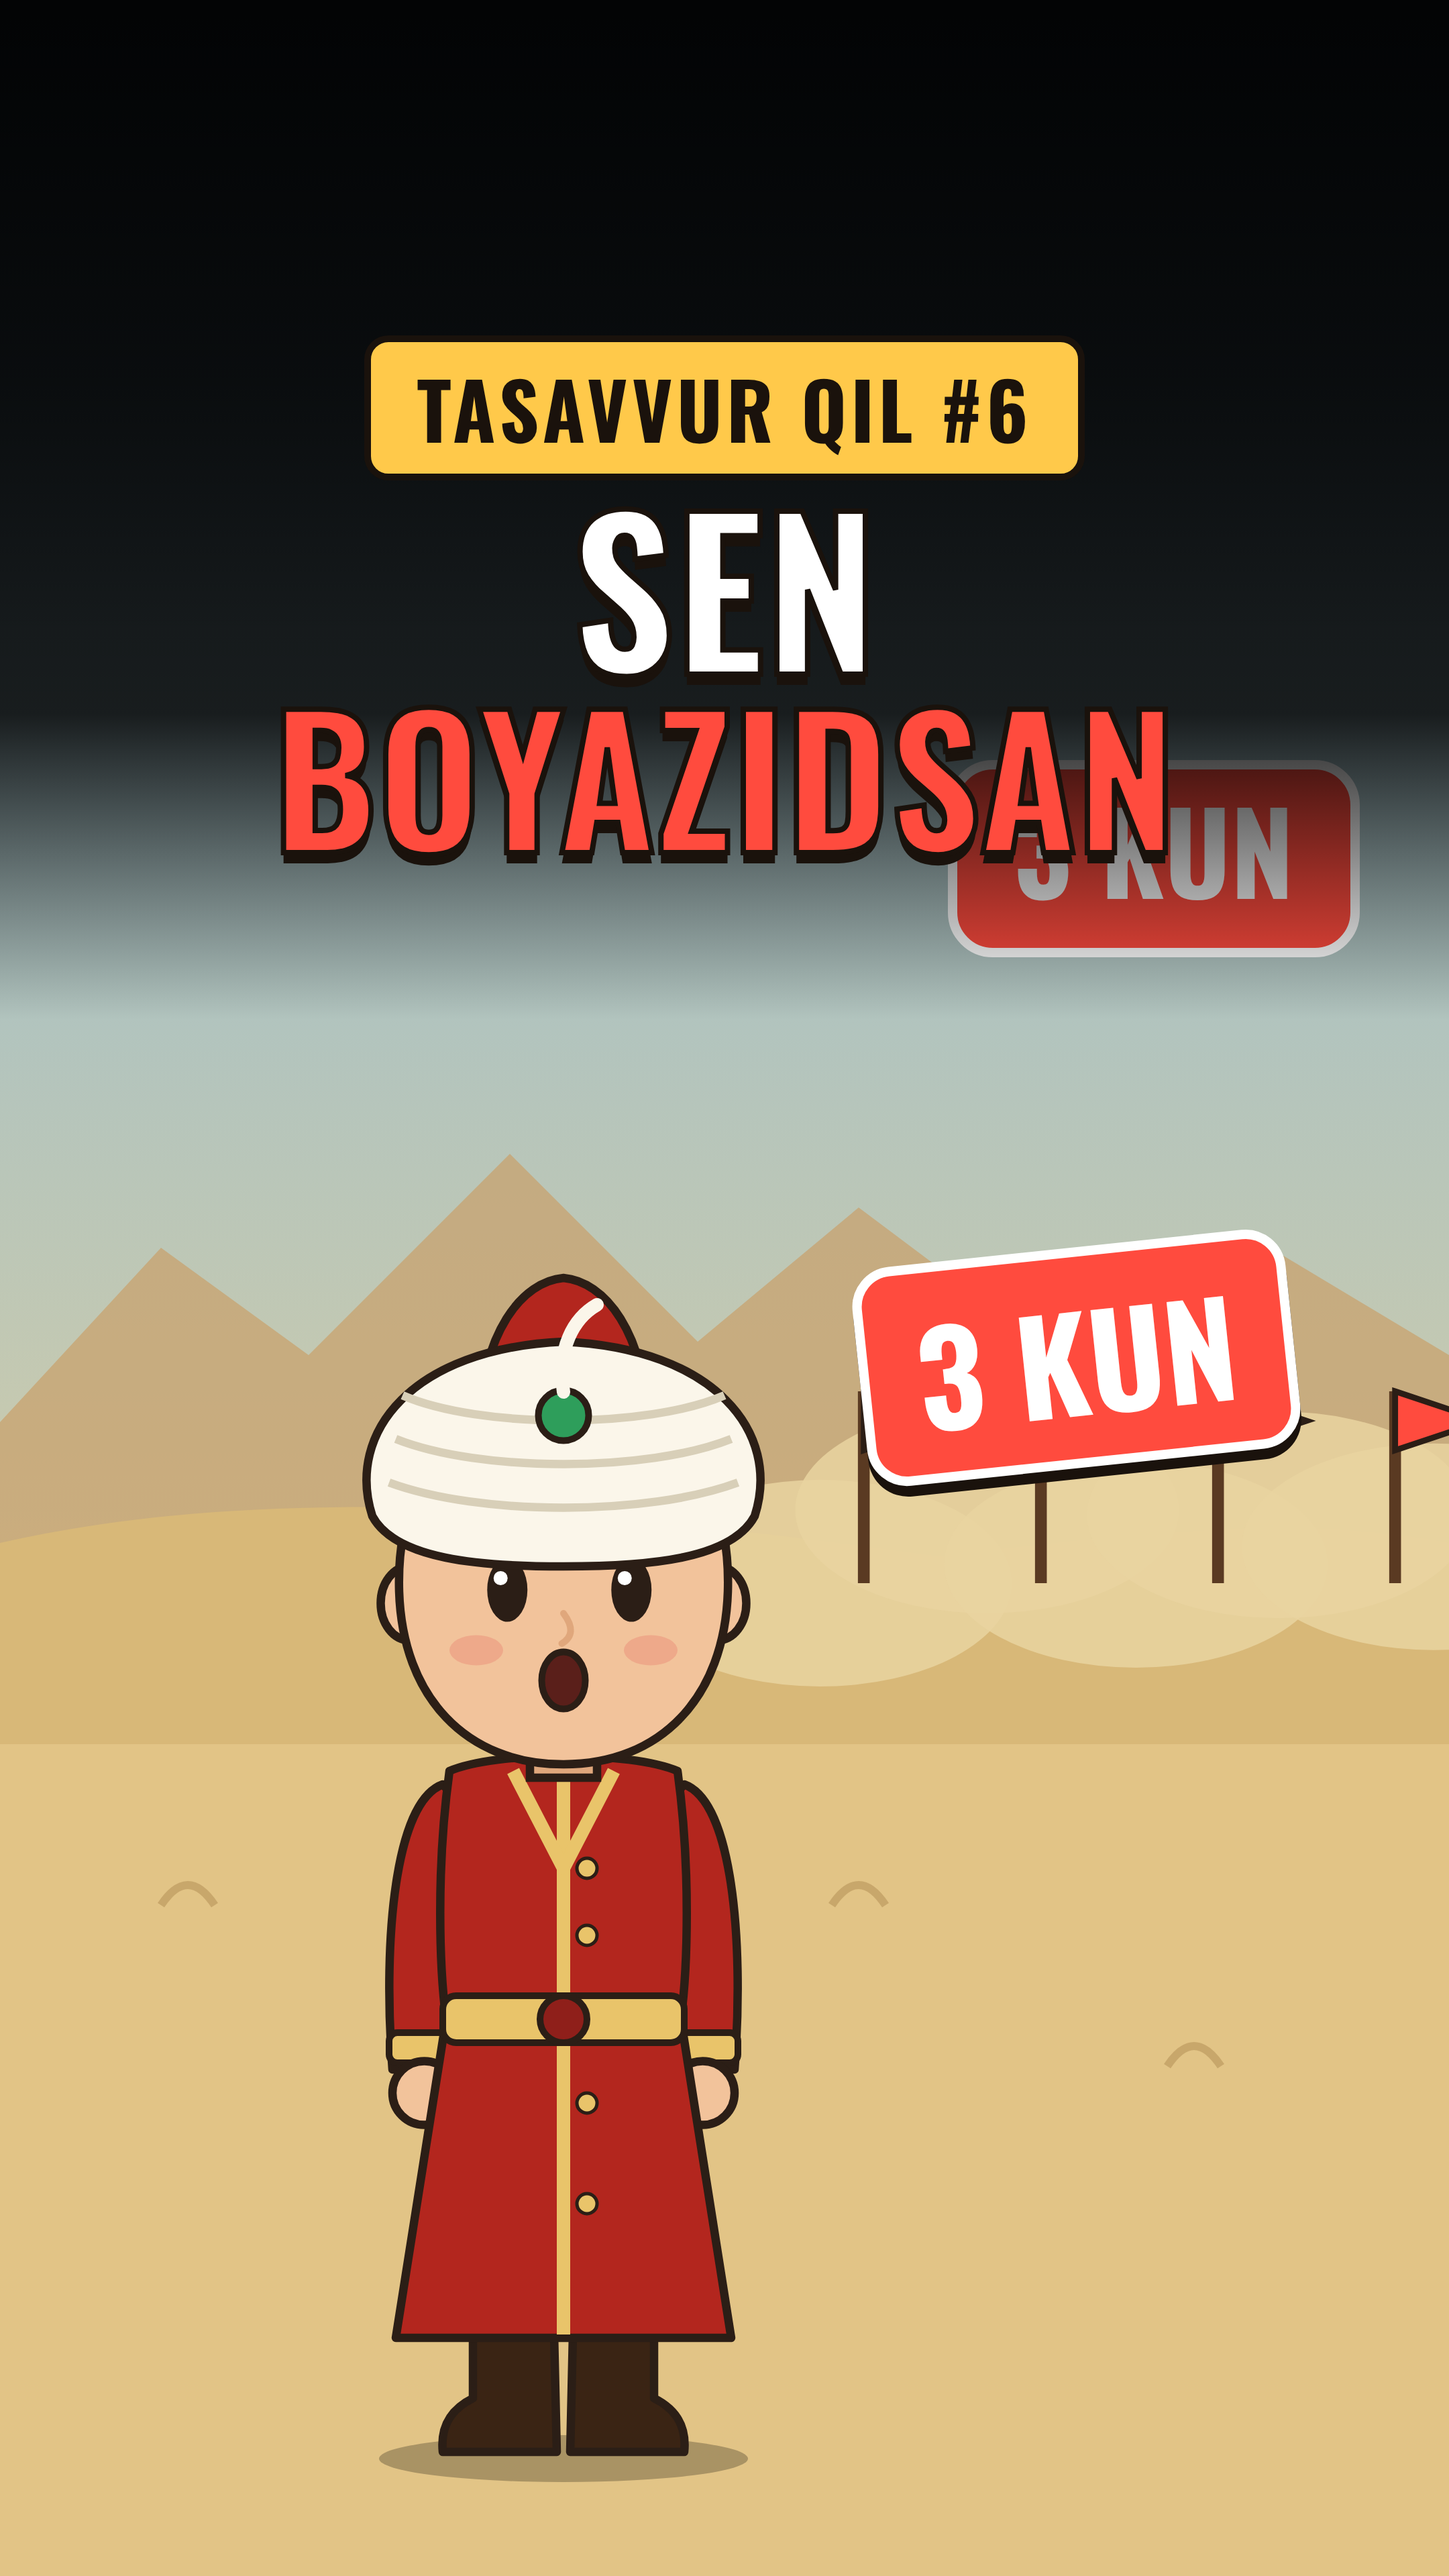
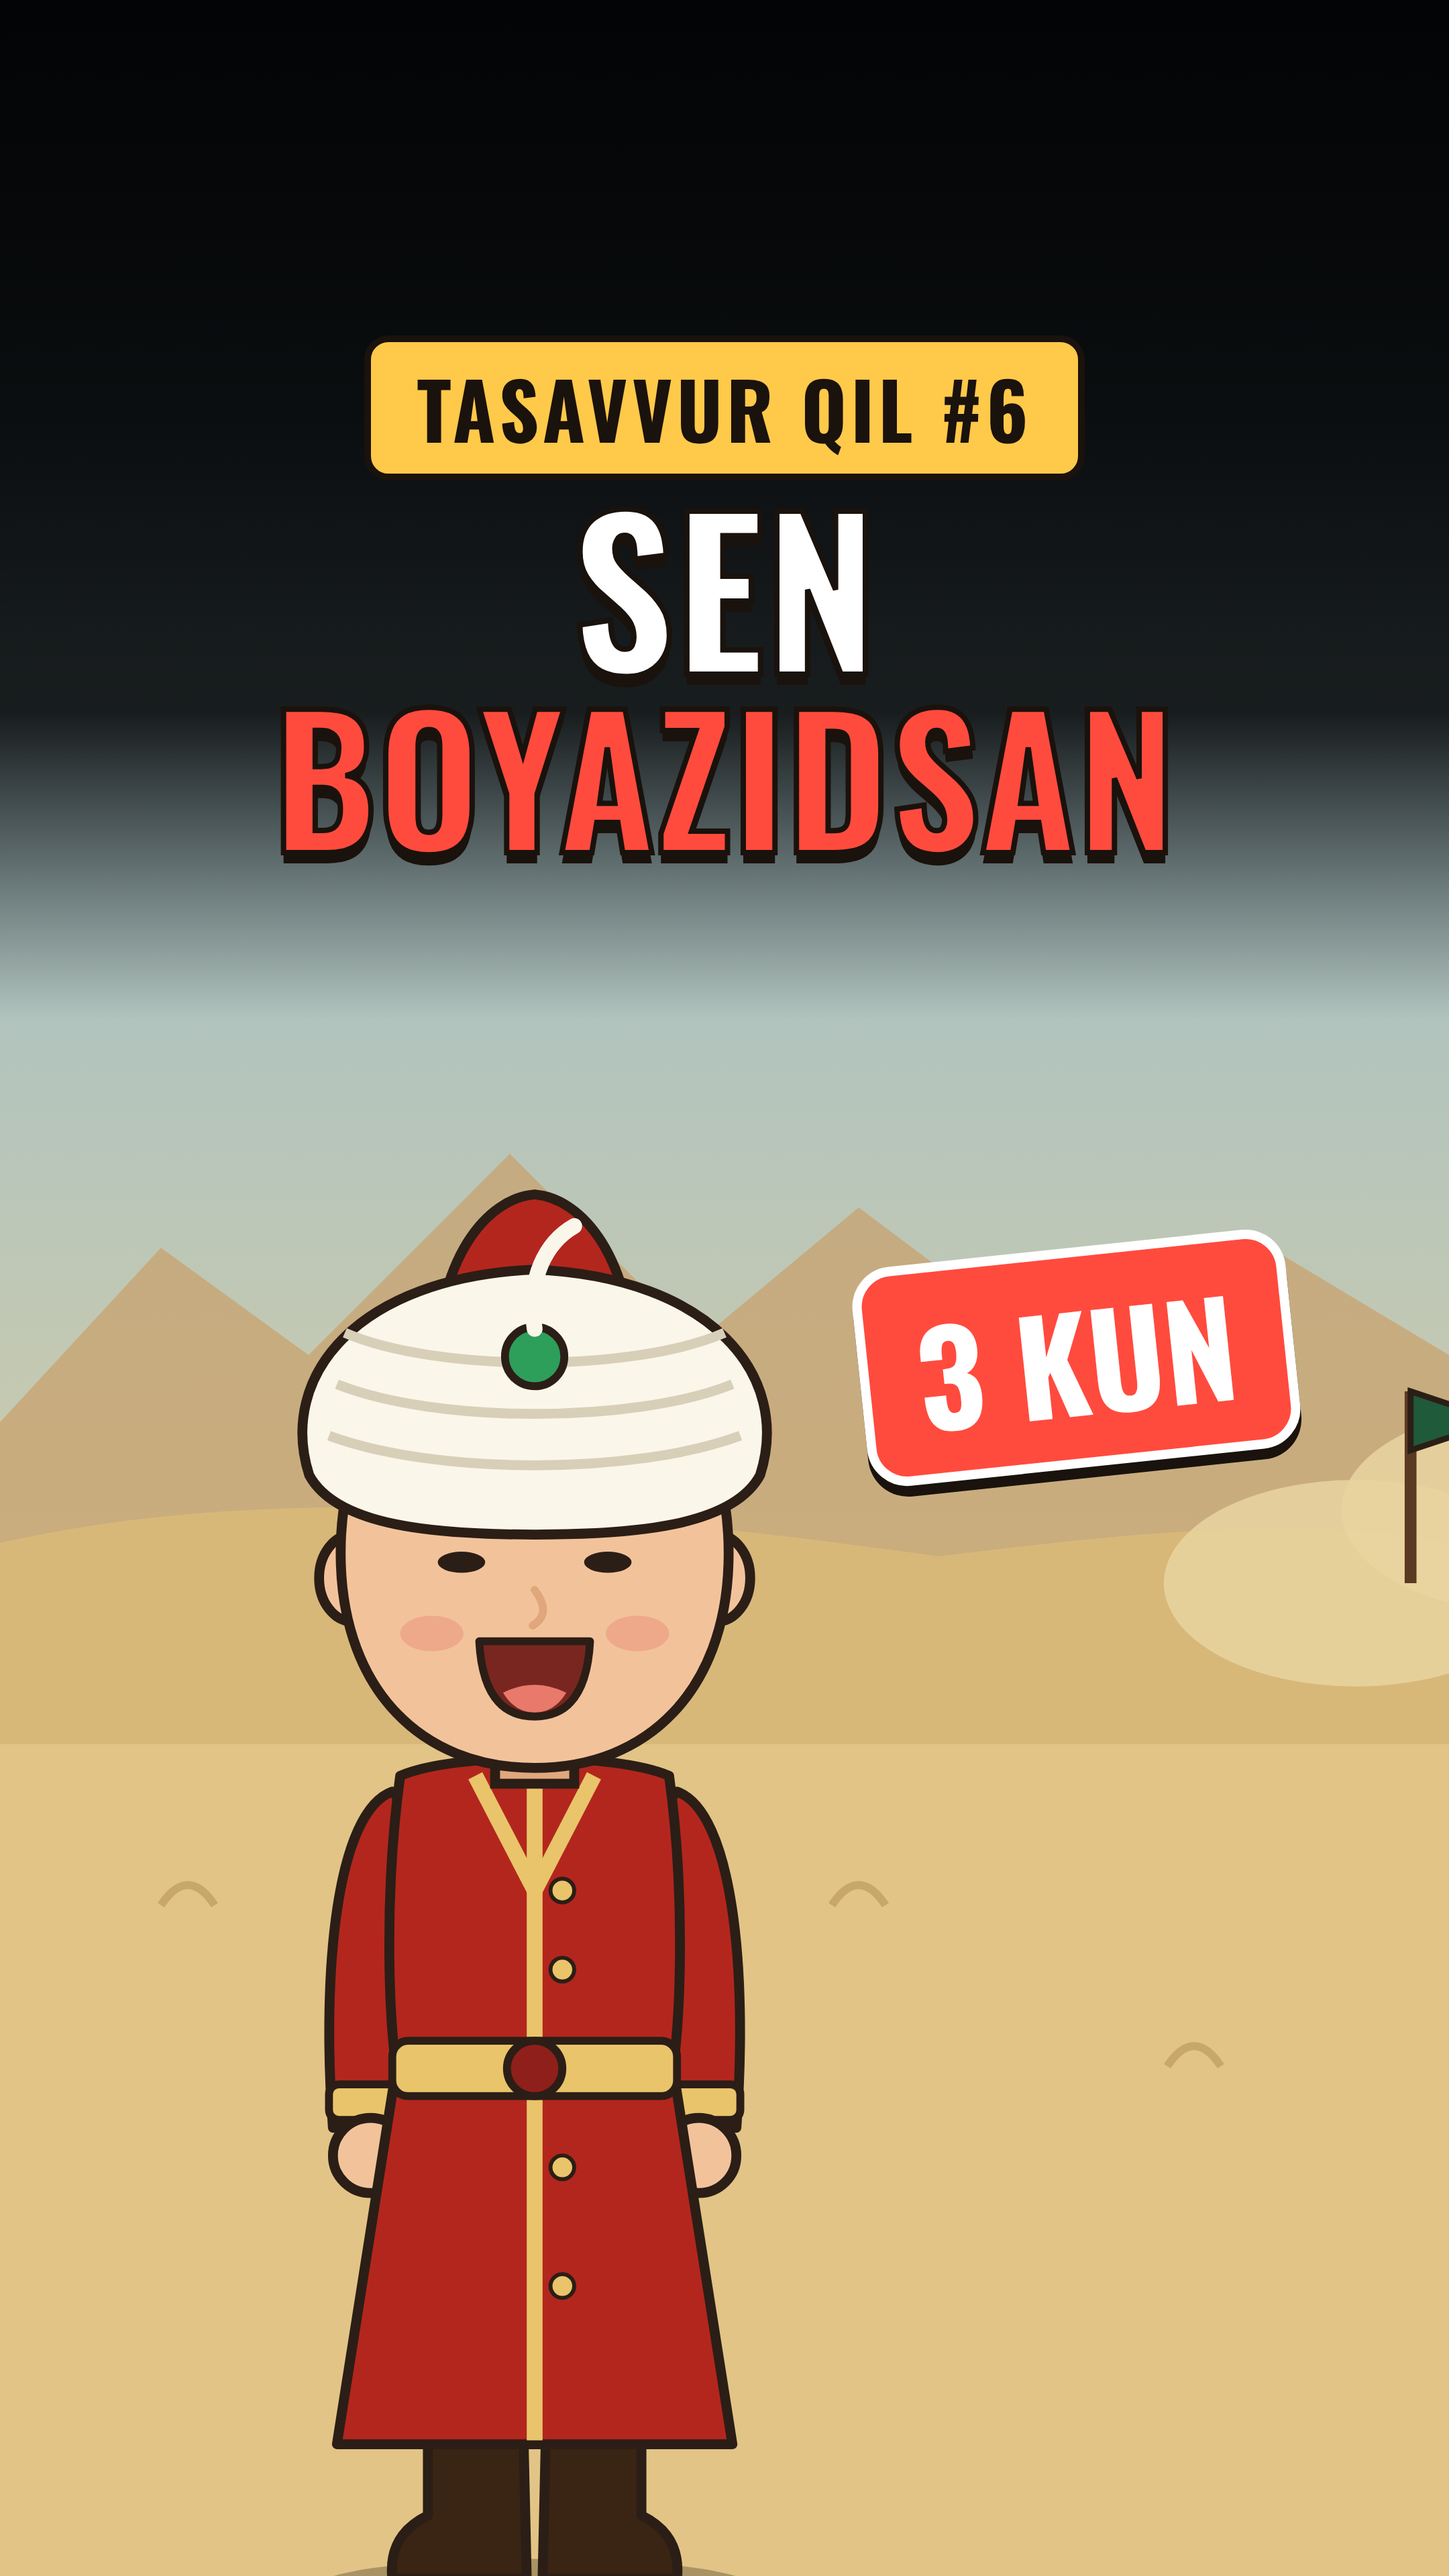
Tasavvur qil #6: cover without duplicate badge
Claude-Session: https://claude.ai/code/session_01TTDtXDKh4KkJ3wKSgrNzoP

Changed region(s): [[0.1861, 0.4375, 1.0, 1.0], [0.6514, 0.2812, 0.9616, 0.375]]

diff --git a/video/src/tasavvur/TQ6Cover.tsx b/video/src/tasavvur/TQ6Cover.tsx
@@ -10,7 +10,7 @@ export const TQ6Cover: React.FC = () => {
   const T: React.CSSProperties = {position: 'absolute', width: '100%', textAlign: 'center', fontFamily: 'Oswald', fontWeight: 700, WebkitTextStroke: '4px #1a120c', textShadow: '0 8px 0 #1a120c', lineHeight: 1.0};
   return (
     <AbsoluteFill style={{background: '#000'}}>
-      <TQ6 at={110} />
+      <TQ6 at={3} />
       <div style={{position: 'absolute', left: 0, top: 0, width: '100%', height: 760, background: 'linear-gradient(180deg, rgba(0,0,0,0.95) 0%, rgba(0,0,0,0.85) 70%, rgba(0,0,0,0) 100%)'}} />
       <div style={{position: 'absolute', top: 250, width: '100%', display: 'flex', justifyContent: 'center'}}>
         <div style={{background: '#ffc94a', color: '#1a120c', fontFamily: 'Oswald', fontWeight: 700, fontSize: 58, padding: '6px 34px', borderRadius: 18, border: '5px solid #1a120c', letterSpacing: 3}}>TASAVVUR QIL #6</div>
